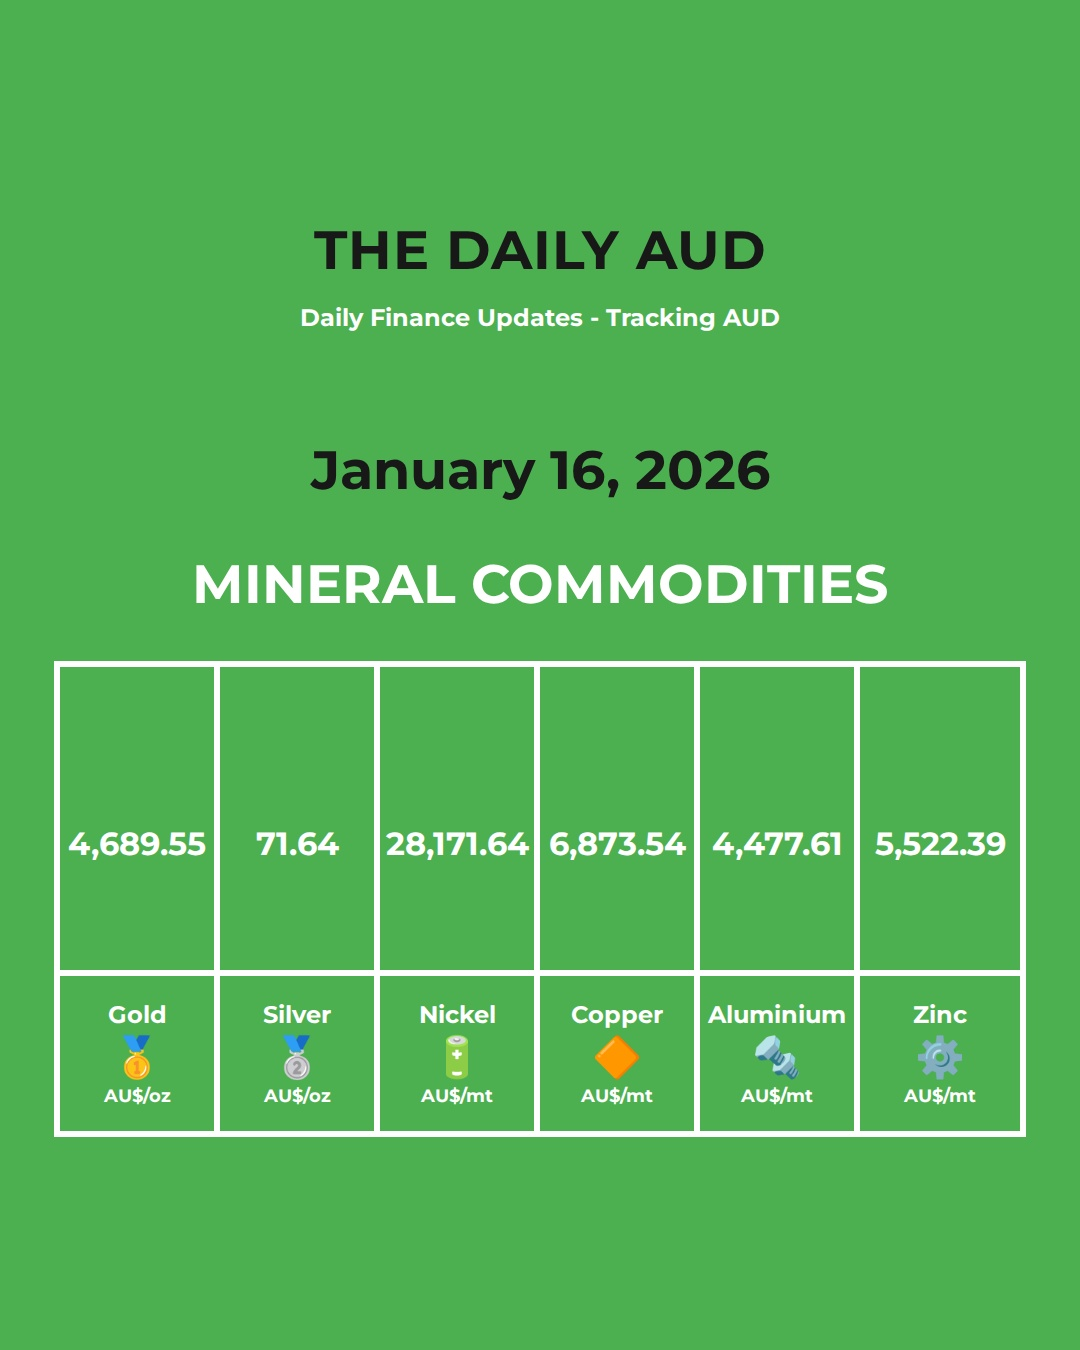
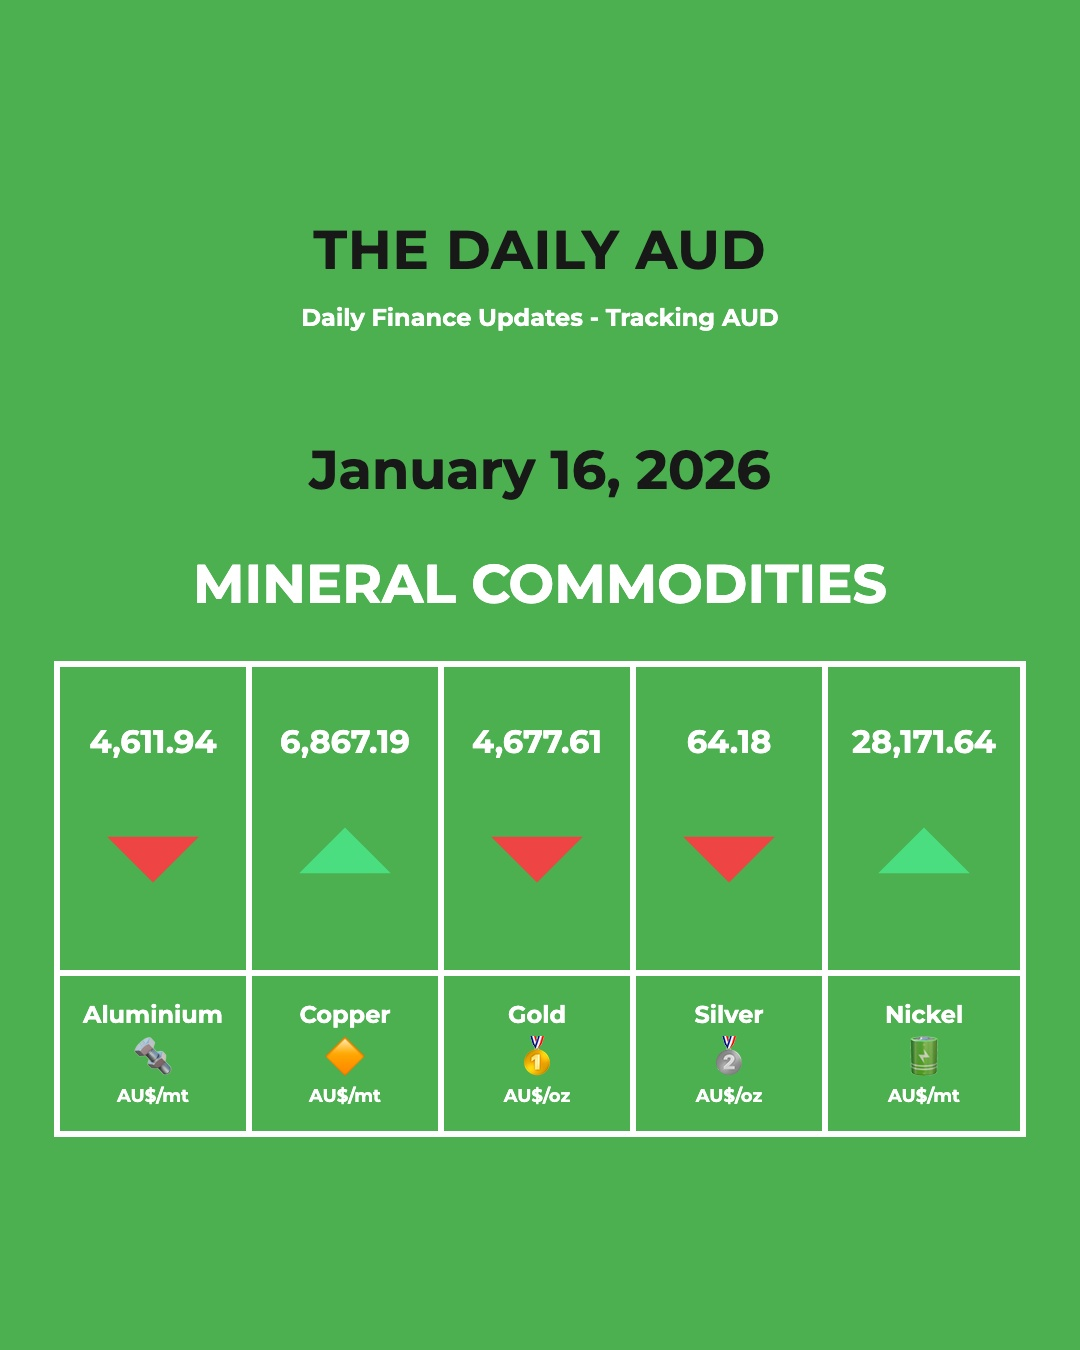
Update workflow and regenerate commodity outputs for 2026-01-16

diff --git a/data/commodities_data/HTML/commodity_2026-01-16.html b/data/commodities_data/HTML/commodity_2026-01-16.html
@@ -105,7 +105,7 @@
             height: 100%;
             position: relative;
             display: grid;
-            grid-template-columns: repeat(6, 1fr);
+            grid-template-columns: repeat(5, 1fr);
             grid-template-rows: 2fr 1fr;
             gap: 0;
         }
@@ -123,11 +123,11 @@
             min-height: 0;
         }
 
-        .table-cell:nth-child(6n) {
+        .table-cell:nth-child(5n) {
             border-right: none;
         }
 
-        .table-cell:nth-child(n+7) {
+        .table-cell:nth-child(n+6) {
             border-bottom: none;
         }
 
@@ -233,31 +233,41 @@
             <div class="table-grid">
                 <!-- First row: Commodity rates -->
                 <div class="table-cell">
-                    <div class="commodity-code">4,689.55</div>
-                    
+                    <div class="commodity-code">4,611.94</div>
+                    <div class="commodity-arrow arrow-down"><svg viewBox="0 0 24 24" xmlns="http://www.w3.org/2000/svg"><path d="M7 10L12 15L17 10H7Z" fill="currentColor"/></svg></div>
                 </div>
                 <div class="table-cell">
-                    <div class="commodity-code">71.64</div>
-                    
+                    <div class="commodity-code">6,867.19</div>
+                    <div class="commodity-arrow arrow-up"><svg viewBox="0 0 24 24" xmlns="http://www.w3.org/2000/svg"><path d="M7 14L12 9L17 14H7Z" fill="currentColor"/></svg></div>
+                </div>
+                <div class="table-cell">
+                    <div class="commodity-code">4,677.61</div>
+                    <div class="commodity-arrow arrow-down"><svg viewBox="0 0 24 24" xmlns="http://www.w3.org/2000/svg"><path d="M7 10L12 15L17 10H7Z" fill="currentColor"/></svg></div>
+                </div>
+                <div class="table-cell">
+                    <div class="commodity-code">64.18</div>
+                    <div class="commodity-arrow arrow-down"><svg viewBox="0 0 24 24" xmlns="http://www.w3.org/2000/svg"><path d="M7 10L12 15L17 10H7Z" fill="currentColor"/></svg></div>
                 </div>
                 <div class="table-cell">
                     <div class="commodity-code">28,171.64</div>
-                    
-                </div>
-                <div class="table-cell">
-                    <div class="commodity-code">6,873.54</div>
-                    
-                </div>
-                <div class="table-cell">
-                    <div class="commodity-code">4,477.61</div>
-                    
-                </div>
-                <div class="table-cell">
-                    <div class="commodity-code">5,522.39</div>
-                    
+                    <div class="commodity-arrow arrow-up"><svg viewBox="0 0 24 24" xmlns="http://www.w3.org/2000/svg"><path d="M7 14L12 9L17 14H7Z" fill="currentColor"/></svg></div>
                 </div>
                 
                 <!-- Second row: Commodity units -->
+                <div class="table-cell">
+                    <div class="commodity-unit">
+                        <div>Aluminium</div>
+                        <div class="commodity-flag">🔩</div>
+                        <div class="unit-label">AU$/mt</div>
+                    </div>
+                </div>
+                <div class="table-cell">
+                    <div class="commodity-unit">
+                        <div>Copper</div>
+                        <div class="commodity-flag">🔶</div>
+                        <div class="unit-label">AU$/mt</div>
+                    </div>
+                </div>
                 <div class="table-cell">
                     <div class="commodity-unit">
                         <div>Gold</div>
@@ -276,27 +286,6 @@
                     <div class="commodity-unit">
                         <div>Nickel</div>
                         <div class="commodity-flag">🔋</div>
-                        <div class="unit-label">AU$/mt</div>
-                    </div>
-                </div>
-                <div class="table-cell">
-                    <div class="commodity-unit">
-                        <div>Copper</div>
-                        <div class="commodity-flag">🔶</div>
-                        <div class="unit-label">AU$/mt</div>
-                    </div>
-                </div>
-                <div class="table-cell">
-                    <div class="commodity-unit">
-                        <div>Aluminium</div>
-                        <div class="commodity-flag">🔩</div>
-                        <div class="unit-label">AU$/mt</div>
-                    </div>
-                </div>
-                <div class="table-cell">
-                    <div class="commodity-unit">
-                        <div>Zinc</div>
-                        <div class="commodity-flag">⚙</div>
                         <div class="unit-label">AU$/mt</div>
                     </div>
                 </div>
